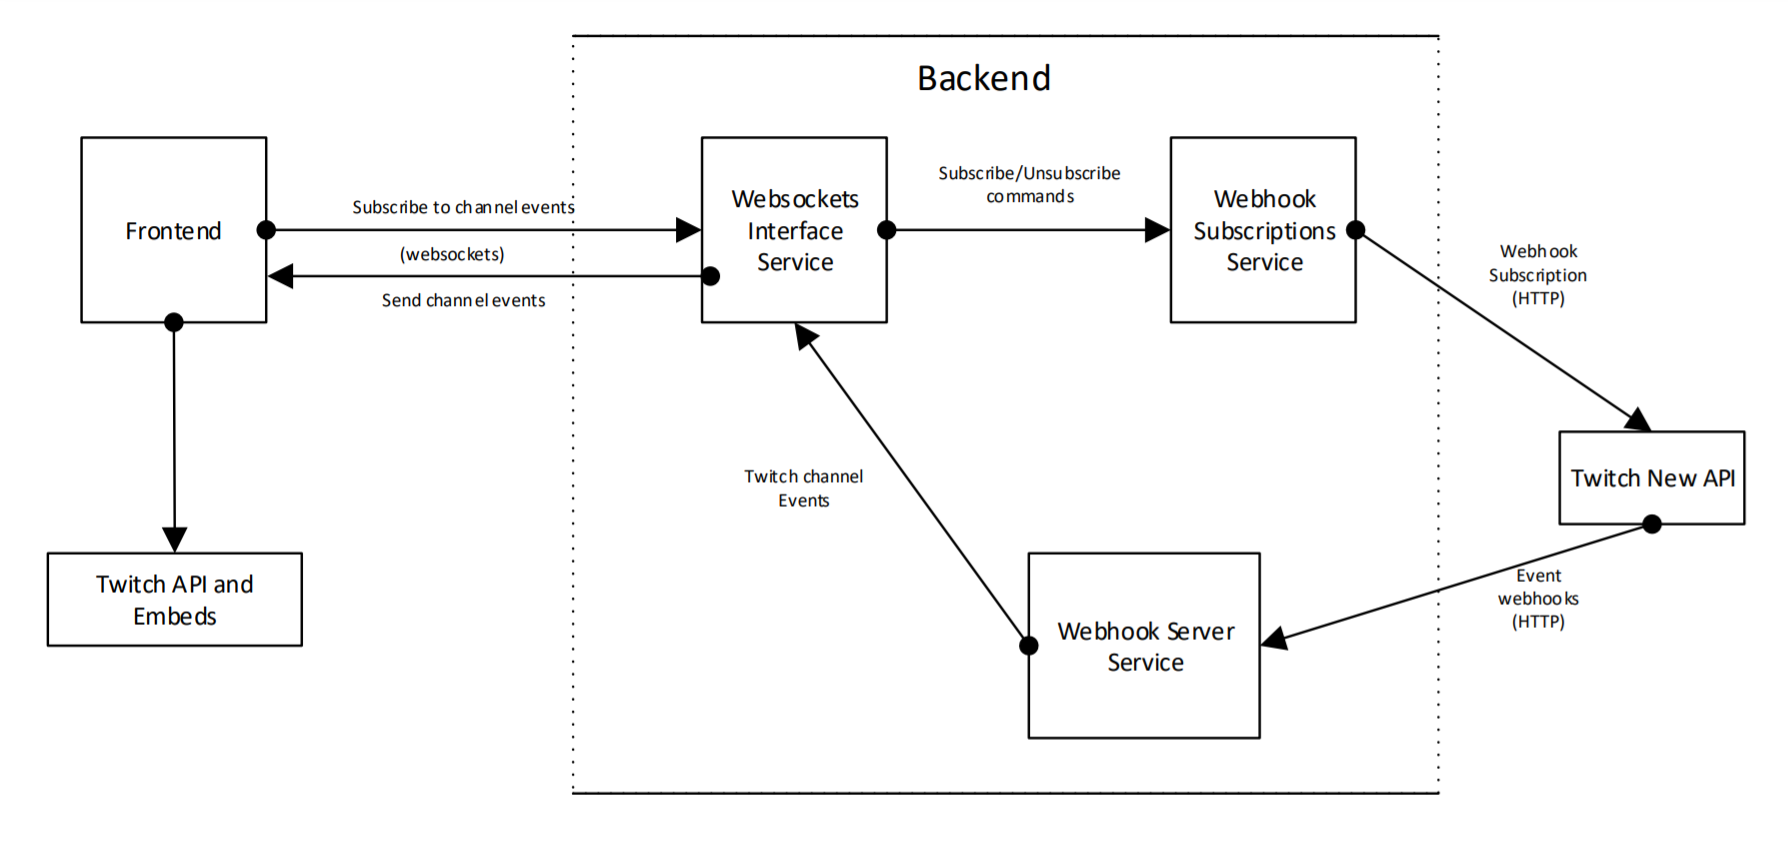
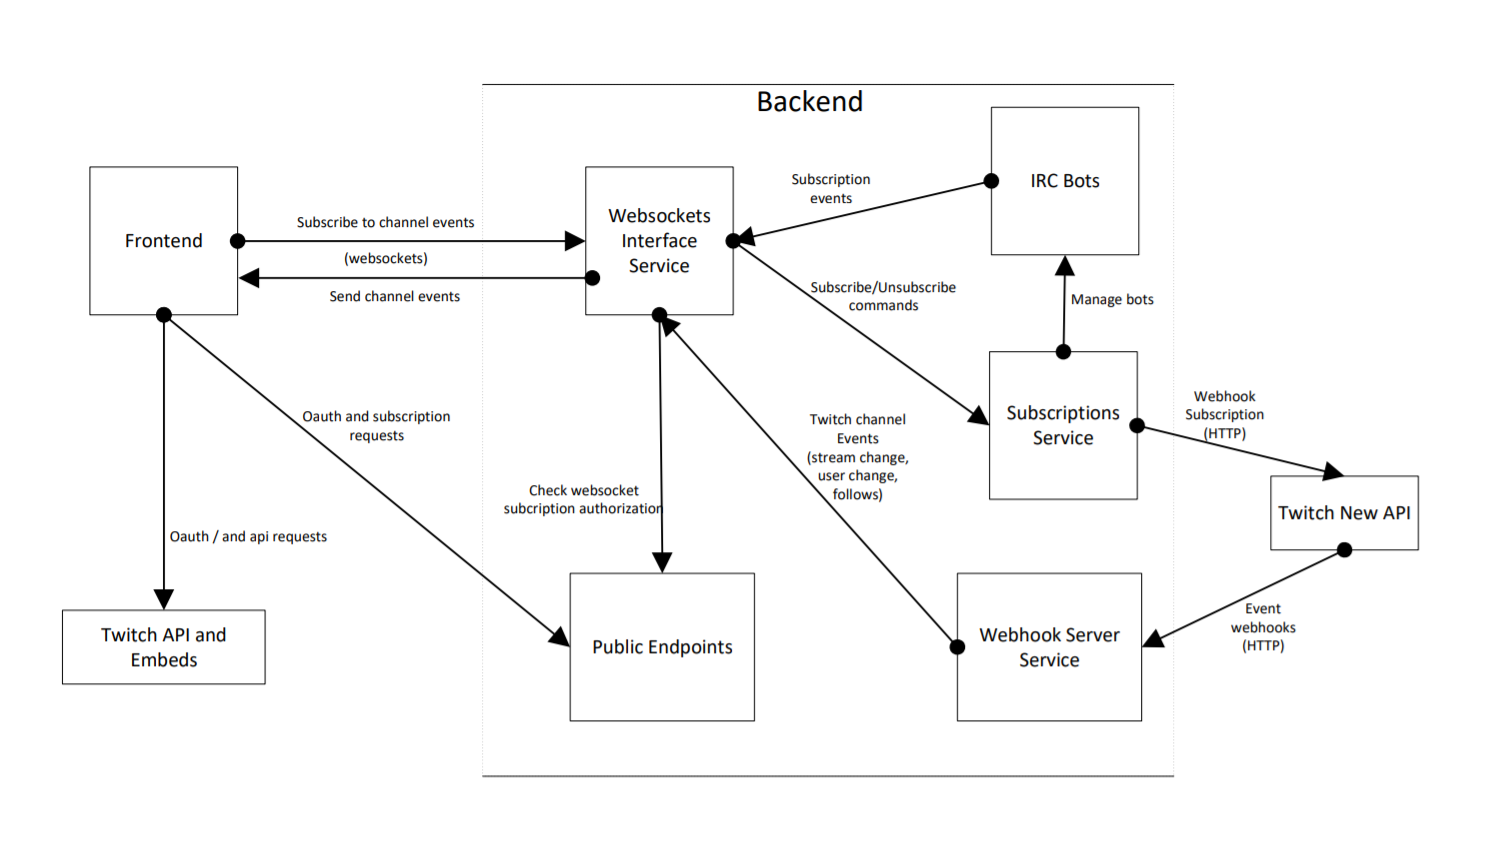
update readme

diff --git a/README.md b/README.md
@@ -5,39 +5,57 @@ As we will use the twitch chat and video embeds and we will not need any more da
 -	Second page: includes the embeds and a widget that shows the newest 10 events received via a websocket to the backend.
 
 ## Events list:
-As the list of events that should be displayed in the widget. I have checked the possible events and assumed them relevance.
-The twitch events are provided through this different channels:
-- Chat widget: shows chat, whispers, moderating events, cheers, etc...
+As the list of events that should be displayed in the widget. We have three sources:
+- IRC: shows chat, whispers, moderating events, cheers, subscriptions, etc...
 - PubSub API: the events are already displayed in the chat widget, thus I will not use it
-- Webhook API: provides events for stream, user change and streamer follows, will be delivered using websockets as per specs.
+- Webhook API: provides events for stream changes, user changes and streamer follows.
+
+I will assume these are the events we need to track:
+- stream changes: tracked from webhooks
+- user changes: tracked from webhooks
+- streamer follows: tracked from webhooks
+- subscriptions: tracked from IRC
+
+As we will have to store the events in DB, the IRC should be tracked by BOT.
+
+## Authentication and Session
+The session should persist for 7 days. This is longer then the life time of Twitch access tokens.
+Hence, we will need to use a refresh token using OAuth.
+Basically, the refresh token will be persisted in our session. And the user can request access tokens to use them in direct Twitch Api requests.
+The server will delete the session including the refresh token after 7 days of user inactivity.
 
 ## Backend: 
 Per specs, we need a websockets server which pushes the channel events to users subscribed to it.
 Considering that the events are provided using the Webhooks API we will need a public endpoint that receives the webhooks.
-Summing up all the previous points, I propose the architecture in the attached chart.
+
+
+| Summing up all the previous points, I suggest the following architecture:
+
+![System architecture](/architecture.png)
   
 # Deployment to AWS
-Using a Git monorepo on Github (Gitlab and Bitbucket are fine too) which contains all the code. 
-The build system; Github Actions in this case, will test, build and deploy the different services.
-## Frontend:
-A simple frontend application. (I used a simple vuejs SPA)
-The website can be simply deployed to S3 and additionally Cloudfront
+As scaling to up to 900MM reqs/day in 6 months. We will need to adopt a microservice architecture or a serverlless one as soon as possible. Therfore, I considered separtation concerns in the code, so it is possible to deploy the services without changing the code.
 
-# Scaling:
-For scaling, we will have to switch to a serverless architecture.
-This approach will be easier to scale as we won't have to manage servers.
+Therefore, I have detailed to steps for the deployment.
 
-It should be simple to migrate to the other architecture as the current code has as I split the code to map into AWS service units and separated the infrastructure from the logic.
+## Step 1: vertical scaling on EC2
+For starters, we will need to deploy our code quickl and without worrying much about the CI/CD and adjusting it to scaling. 
+As the backend is split into services, a service for each block in the architcture diagram.
+We can host the backend on an EC2 instance and manage vertical scale it as needed. We will mange the for deployment and process management PM2.
 
-## Subscription
-Clean up subscriptions
+For the frontend, as it is a static web app, we can host it in S3 (then optionally setup CloudFront for it).
 
+## Step2: Switching to serverless
+Next, have to switch to a serverless architecture. This approach will be easier as we will not have to manage servers or customize our toolchain.
+
+By design, the services can be used
 
 ## The services implementation in AWS
 - Websockets server Interface: AWS API gateway websockets
 - Webhook Subscriptions Service: AWS Lambda
 - Webhook Server: AWS Lambda with public access
-- Authentication: either as a Lambda or using AWS Cognito with the Twitch OpenId as a user pool.
+- Public API: using AWS Lambda with DynamoDB for session. Also, AWS Cognito with the Twitch OpenId as a user pool might be an option.
+- IRC bots: the bots must stay connected as long as we have subscriptions to channels. Hence we will always have working servers. We can use Elastic Load Balancing with autoscaled EC2 instances for this service.
 
 ## Scaling the database
 The `events` table which can grow large because of many inserts. As the records are timestamped, we can shard the table by partition the table by range(`created_at ASC`, `streamer_name`, `event_type`).
